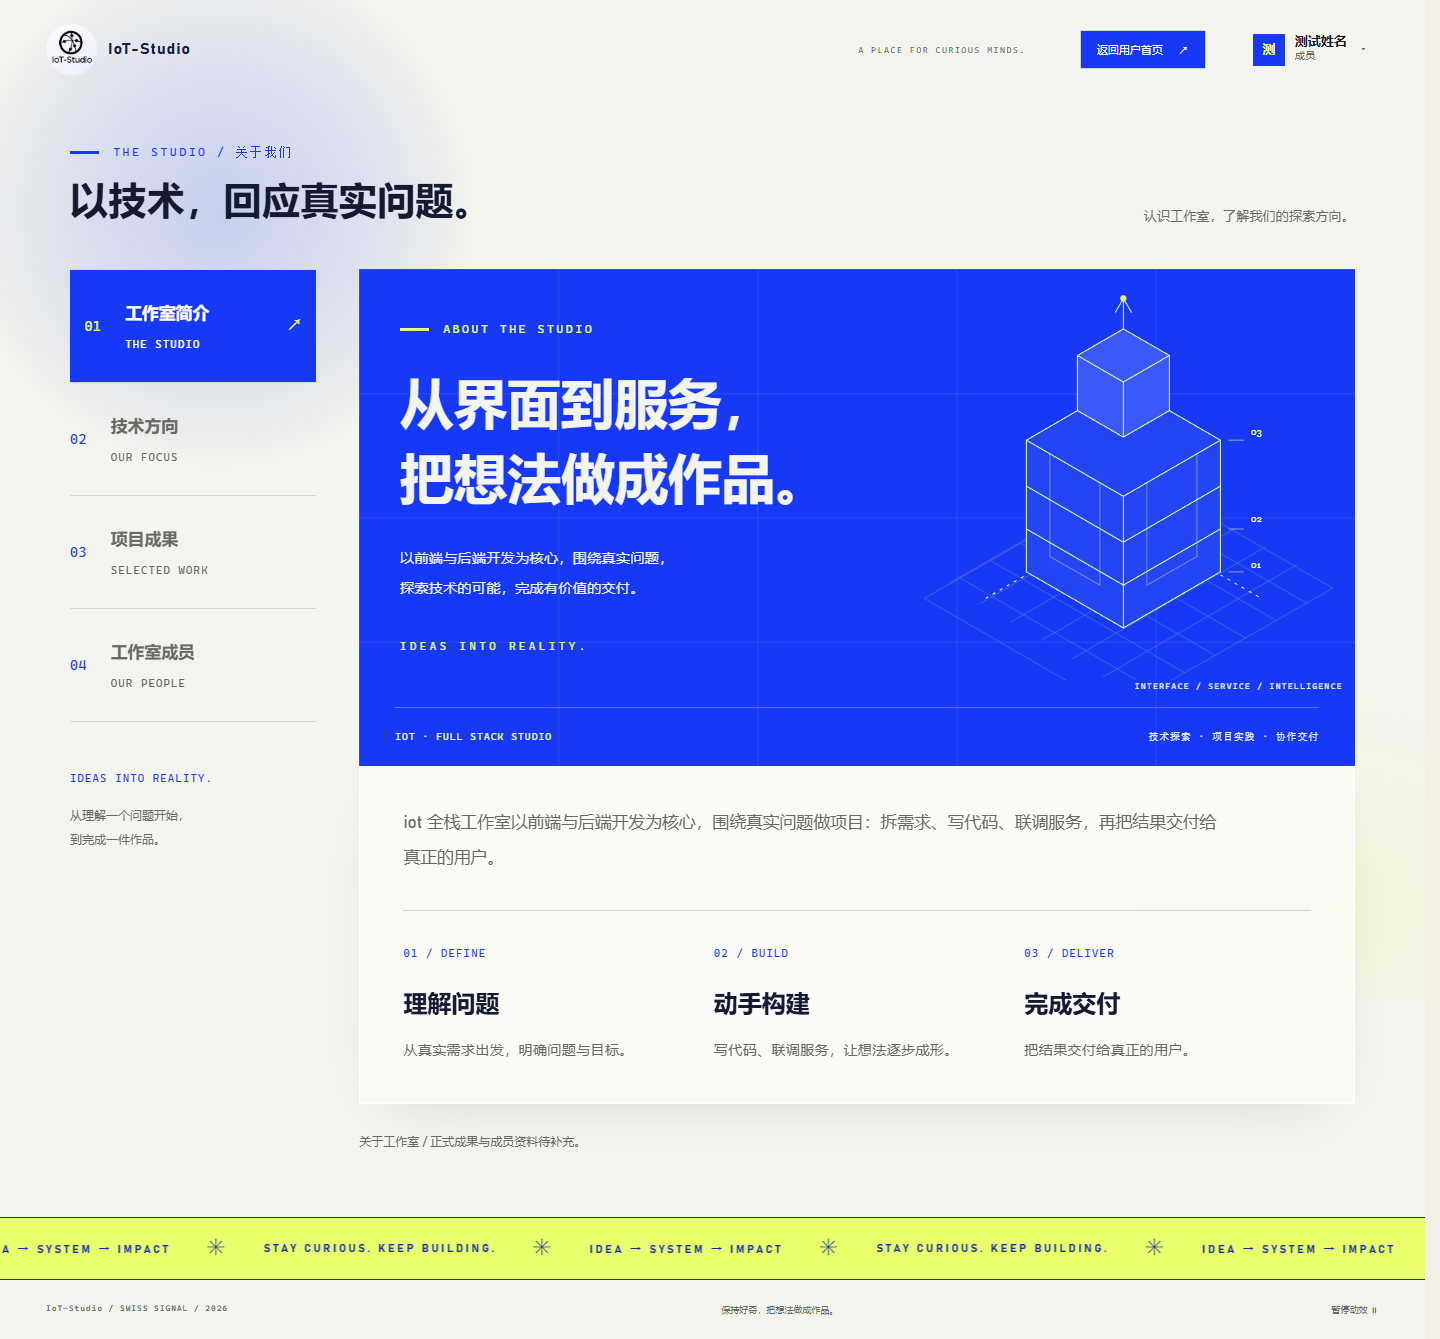
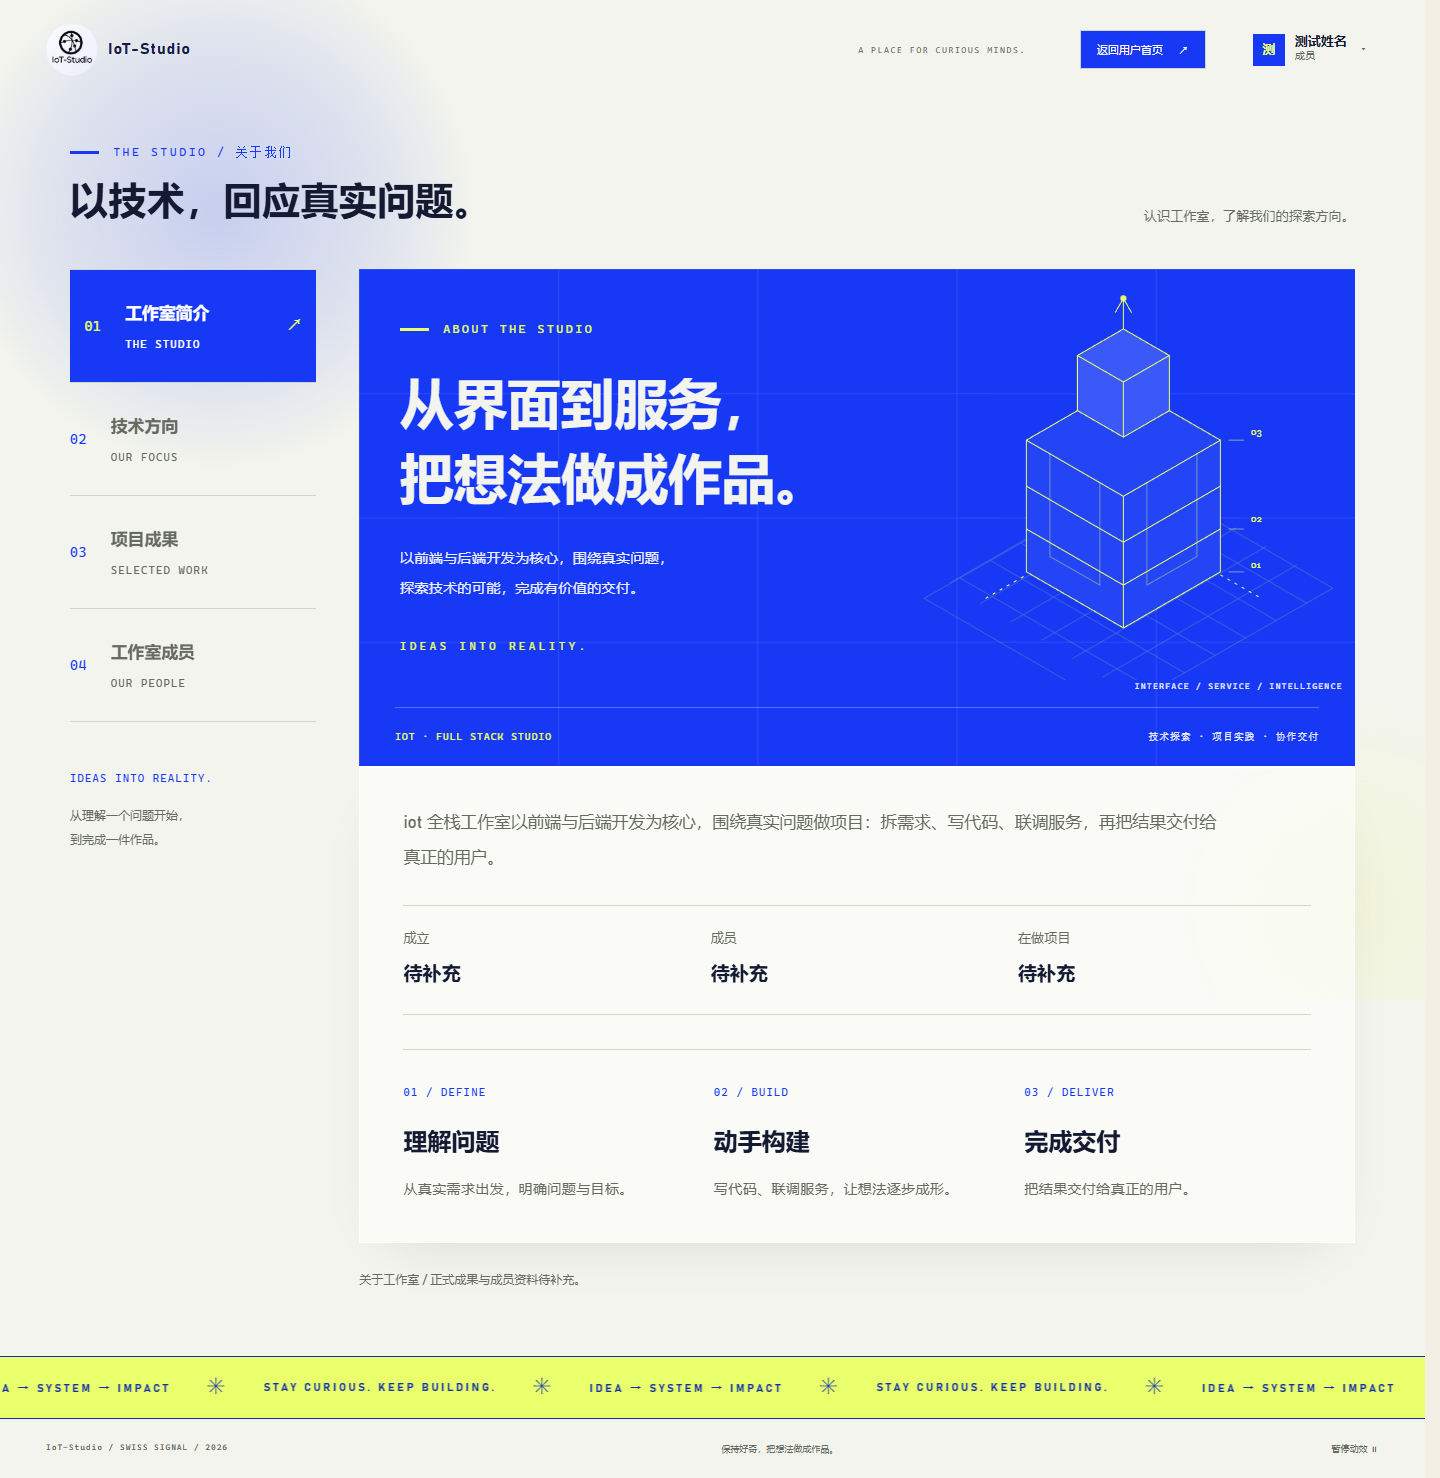
fix(about): preserve stats and focused tab

diff --git a/apps/web/src/modules/about/components/StudioIntroCard.vue b/apps/web/src/modules/about/components/StudioIntroCard.vue
@@ -24,6 +24,12 @@ defineProps<{ profile: StudioProfile }>();
     </div>
     <div class="intro__body">
       <p class="intro__description">{{ profile.description }}</p>
+      <dl class="intro__stats">
+        <div v-for="stat in profile.stats" :key="stat.label">
+          <dt>{{ stat.label }}</dt>
+          <dd>{{ stat.value }}</dd>
+        </div>
+      </dl>
       <div class="intro__principles">
         <div><small>01 / DEFINE</small><h3>理解问题</h3><p>从真实需求出发，明确问题与目标。</p></div>
         <div><small>02 / BUILD</small><h3>动手构建</h3><p>写代码、联调服务，让想法逐步成形。</p></div>
@@ -50,6 +56,10 @@ defineProps<{ profile: StudioProfile }>();
 .intro__hero-bottom span:first-child { color: var(--about-yellow); }
 .intro__body { padding: 32px 36px; border: 1px solid white; background: #ffffff91; box-shadow: 0 18px 48px -32px #0a102038, inset 0 1px 0 white; }
 .intro__description { max-width: 680px; margin: 0; color: var(--about-muted); font-size: 14px; line-height: 2.1; }
+.intro__stats { display: grid; grid-template-columns: repeat(3, minmax(0, 1fr)); gap: 12px; margin: 24px 0 0; padding: 18px 0; border-block: 1px solid var(--about-line); }
+.intro__stats > div { min-width: 0; }
+.intro__stats dt { color: var(--about-muted); font-size: 11px; }
+.intro__stats dd { margin: 4px 0 0; color: var(--about-ink); font-size: 16px; font-weight: 600; }
 .intro__principles { display: grid; grid-template-columns: repeat(3, 1fr); gap: 20px; margin-top: 28px; border-top: 1px solid var(--about-line); }
 .intro__principles > div { padding-top: 22px; }
 .intro__principles small { color: var(--about-blue); font: 9px var(--about-mono); letter-spacing: 1px; }

diff --git a/apps/web/src/modules/about/views/AboutView.vue b/apps/web/src/modules/about/views/AboutView.vue
@@ -26,7 +26,7 @@ onMounted(() => {
 onUnmounted(() => mobileQuery?.removeEventListener("change", syncMobile));
 
 function preview(event: PointerEvent, id: SectionId): void {
-  if (event.pointerType === "mouse") active.value = id;
+  if (event.pointerType === "mouse" && !navigation.value?.contains(document.activeElement)) active.value = id;
 }
 
 function move(event: KeyboardEvent, index: number): void {

diff --git a/docs/about-sidebar.md b/docs/about-sidebar.md
@@ -8,6 +8,6 @@ Issue #179 将 `/user/about` 的内容布局迁移到 `docs/demos/about/sidebar.
 
 页面主体按 Demo 初始尺寸的 120% 展示，宽度随容器收缩，避免放大后产生横向溢出。桌面鼠标悬停预览栏目，点击后保持选中；移入内容区不会重置。键盘方向键循环切换，Home/End 跳到首尾。手机端四栏排成顶部横向导航，点击或触摸切换。每个 tab 关联自己的 tabpanel；栏目内容按 Demo 渐入，减少动态效果时动画与过渡关闭。
 
-验证：启动 Vite，设置 `PLAYWRIGHT_MODULE` 指向已安装的 Playwright，然后运行 `node apps/web/tests/about-sidebar.browser.cjs`。可设置 `TEST_BASE_URL` 和 `SCREENSHOT_DIR`。脚本使用模拟身份和 `/me` 响应，检查 1440px 桌面与 320/375/390/430px 手机宽度的栏目交互、键盘、关联关系、光晕、减少动态效果和横向溢出。生产环境与真实 iOS/微信浏览器需另行验收。
+验证：启动 Vite，设置 `PLAYWRIGHT_MODULE` 指向已安装的 Playwright，然后运行 `node apps/web/tests/about-sidebar.browser.cjs`。可设置 `TEST_BASE_URL` 和 `SCREENSHOT_DIR`。脚本使用模拟身份和 `/me` 响应，检查 1440px 桌面与 320/375/390/430px 手机宽度的栏目交互、键盘、关联关系、光晕、减少动态效果和横向溢出；另以无会话浏览器验证游客可访问简介。生产环境与真实 iOS/微信浏览器需另行验收。
 
 页面对比截图：桌面 [改动前](issues/assets/about-sidebar-before-1440.png) / [改动后](issues/assets/about-sidebar-after-1440.png)，手机 [改动前](issues/assets/about-sidebar-before-390.png) / [改动后](issues/assets/about-sidebar-after-390.png)。
